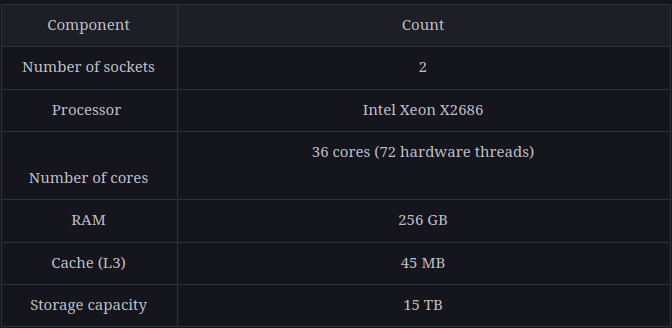
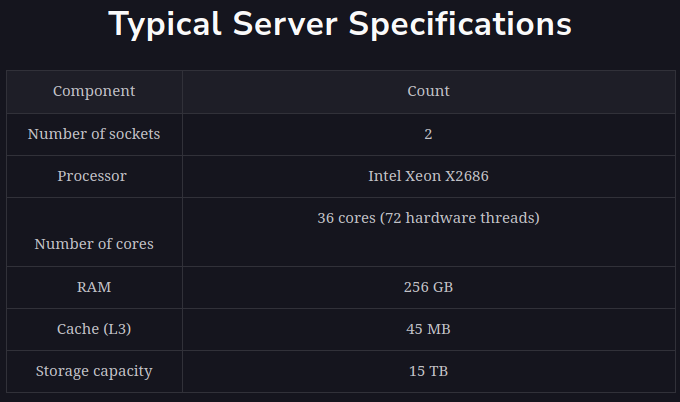
Grokking System Design: 1w4d

diff --git a/Grokking System Design/03.Back-of-the-envelope Calculations/01.Put Back-of-the-envelope Numbers in Perspective.md b/Grokking System Design/03.Back-of-the-envelope Calculations/01.Put Back-of-the-envelope Numbers in Perspective.md
@@ -66,7 +66,6 @@ monitoring, load balancing, analytics, accounting, caching, and so on.
 The numbers open-sourced by Facebook are outdated as of now. In the table below, 
 we depict the capabilities of a server that can be used in the data centers of today:
 
-Typical Server Specifications
 ![img.png](attachment02.png)
 
 The numbers above are inspired by the Amazon bare-metal server, but there can be more 
@@ -79,13 +78,11 @@ But without any basic knowledge of the kind of workloads machines can handle, th
 Latencies play an important role in deciding the amount of workload a machine can handle. 
 The table below depicts some of the important numbers system designers should know in order to perform resource estimation.
 
-Important Latencies
 ![img.png](attachment03.png)
 
 Apart from the latencies listed above, there are also throughput numbers measured as queries per second (QPS) 
 that a typical single-server datastore can handle.
 
-Important Rates
 ![img.png](attachment04.png)
 
 The numbers above are approximations and vary greatly depending on a number of reasons like the type of query (point and range), 
